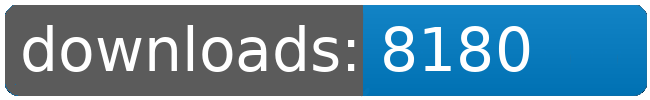
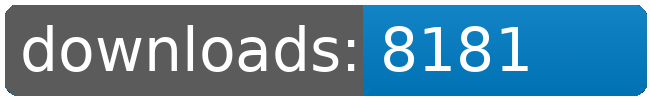
dl log written

Changed region(s): [[0.7692, 0.24, 0.8308, 0.72]]

diff --git a/README.md b/README.md
@@ -21,8 +21,8 @@
 		<td>8107</td>
 		<td>8131</td>
 		<td>8157</td>
-		<td>8180</td>
-		<td>+ 23</td>
+		<td>8181</td>
+		<td>+ 24</td>
 	</tr>
 	<tr>
 		<td>Factory.Outlets</td>
@@ -120,8 +120,8 @@
 		<td></td>
 		<td></td>
 		<td></td>
-		<td>60759</td>
-		<td>179</td>
+		<td>60760</td>
+		<td>180</td>
 	</tr>
 </table>
 </sub></sup>
@@ -157,8 +157,8 @@
 		<td>8107</td>
 		<td>8131</td>
 		<td>8157</td>
-		<td>8180</td>
-		<td>+ 23</td>
+		<td>8181</td>
+		<td>+ 24</td>
 	</tr>
 	<tr>
 		<td>Louise.Conglomerate.Shipyards</td>
@@ -245,8 +245,8 @@
 		<td></td>
 		<td></td>
 		<td></td>
-		<td>60759</td>
-		<td>179</td>
+		<td>60760</td>
+		<td>180</td>
 	</tr>
 </table>
 </sub></sup>
